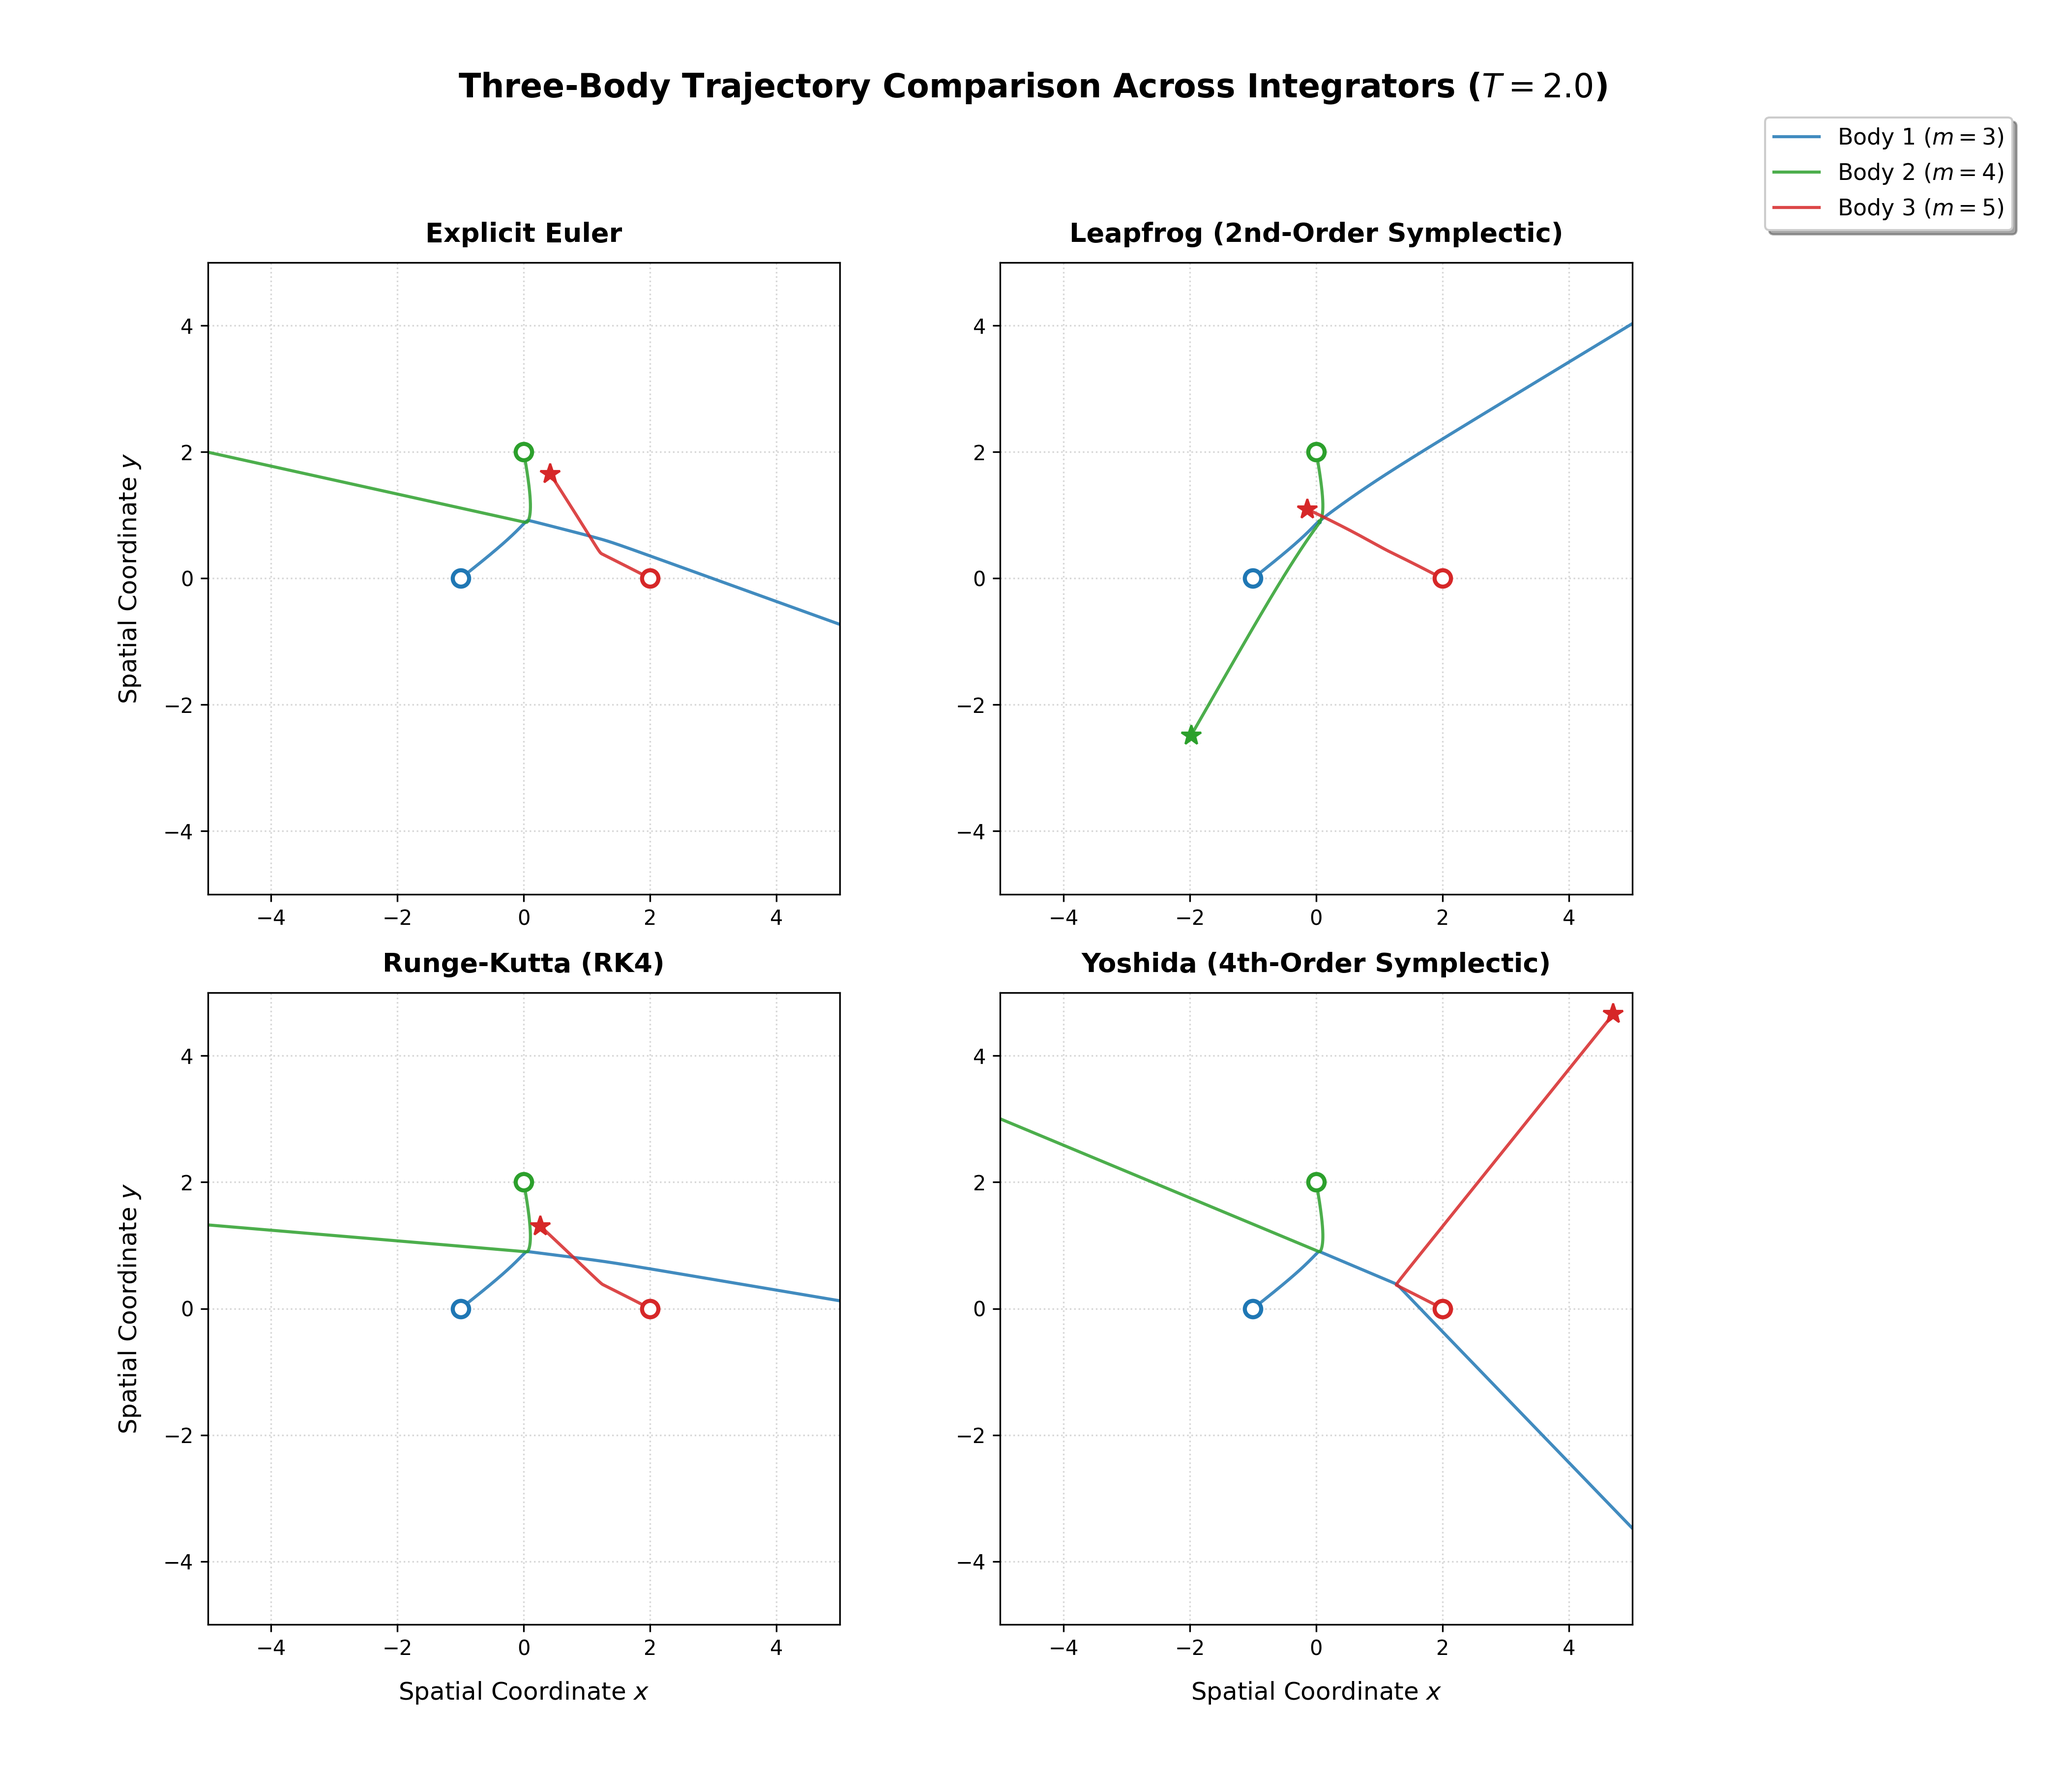
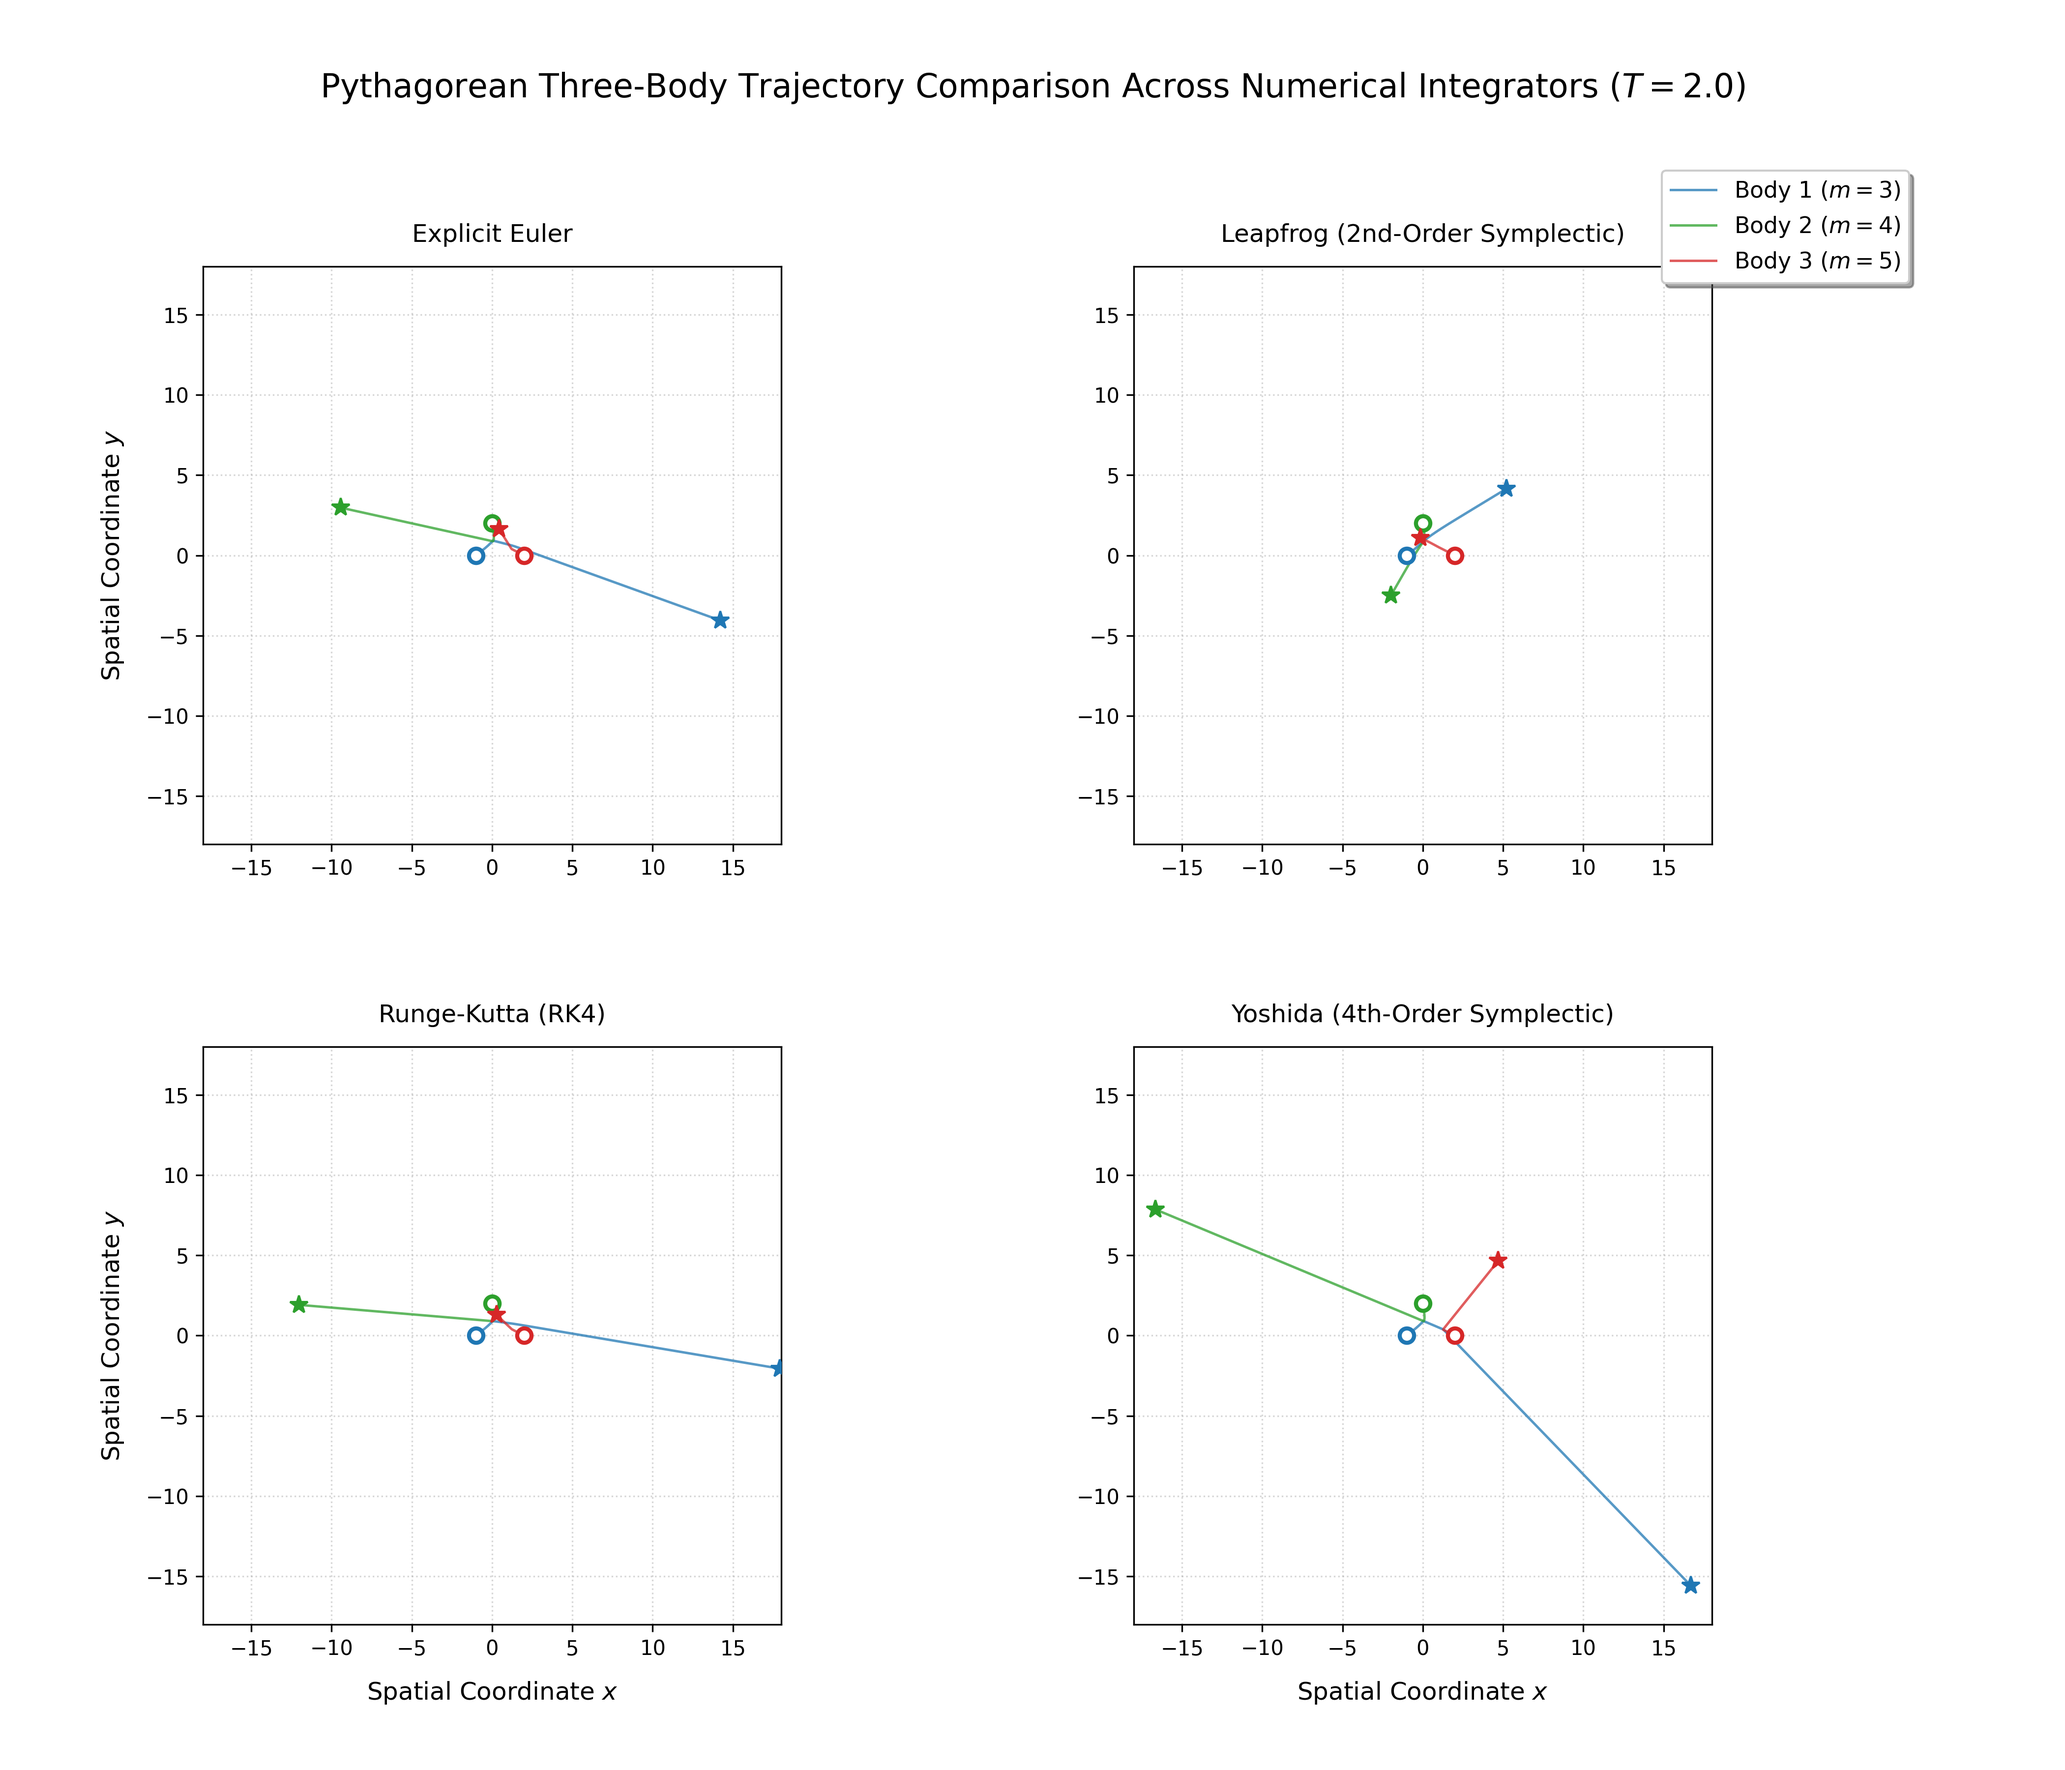
Refine plot aesthetics and adjust axis limits for three-body chaos trajectories

diff --git a/experiments/05_three_body_chaos.py b/experiments/05_three_body_chaos.py
@@ -107,8 +107,8 @@ def execute_three_body_chaos_experiment():
                 history[b_idx, :, 0],
                 history[b_idx, :, 1],
                 color=body_colors[b_idx],
-                linewidth=1.5,
-                alpha=0.85,
+                linewidth=1.2,
+                alpha=0.75,
                 label=(
                     body_labels[b_idx] if idx == 0 else ""
                 ),  # Label only first to avoid legend duplication
@@ -120,7 +120,7 @@ def execute_three_body_chaos_experiment():
                 init_positions[b_idx][1],
                 marker="o",
                 color=body_colors[b_idx],
-                markersize=8,
+                markersize=7,
                 markerfacecolor="white",
                 markeredgewidth=2,
                 zorder=5,
@@ -135,18 +135,18 @@ def execute_three_body_chaos_experiment():
                     final_y,
                     marker="*",
                     color=body_colors[b_idx],
-                    markersize=10,
+                    markersize=9,
                     zorder=5,
                 )
 
         # Style individual subplots 
-        ax.set_title(name, fontsize=13, fontweight="bold", pad=10)
+        ax.set_title(name, fontsize=12, pad=12)
         ax.grid(True, which="both", linestyle=":", alpha=0.5)
-        ax.set_aspect("equal", adjustable="box")
+        ax.set_aspect("equal")
 
         # Fixed axis ranges for consistent comparison
-        ax.set_xlim(-5, 5)
-        ax.set_ylim(-5, 5)
+        ax.set_xlim(-18, 18)
+        ax.set_ylim(-18, 18)
 
     # Set outer bounding labels across shared grids
     for i in range(2):
@@ -155,22 +155,22 @@ def execute_three_body_chaos_experiment():
 
     total_simulated_time = dt * num_steps
     plt.suptitle(
-        f"Three-Body Trajectory Comparison Across Integrators ($T={total_simulated_time}$)",
+        f"Pythagorean Three-Body Trajectory Comparison Across Numerical Integrators ($T={total_simulated_time}$)",
         fontsize=16,
-        fontweight="bold",
         y=0.96,
     )
 
     # Single unified legend placed cleanly outside the subplots
     fig.legend(
         loc="upper right",
-        bbox_to_anchor=(0.98, 0.94),
+        bbox_to_anchor=(0.93, 0.91),
         fontsize=11,
         frameon=True,
         shadow=True,
     )
 
-    plt.tight_layout(rect=[0.02, 0.02, 0.85, 0.92])
+    plt.tight_layout(rect=[0.02, 0.02, 0.88, 0.92])
+    fig.subplots_adjust(hspace=0.35, wspace=0.25)
 
     # Created output directory
     output_dir = "dissertation/figures"
